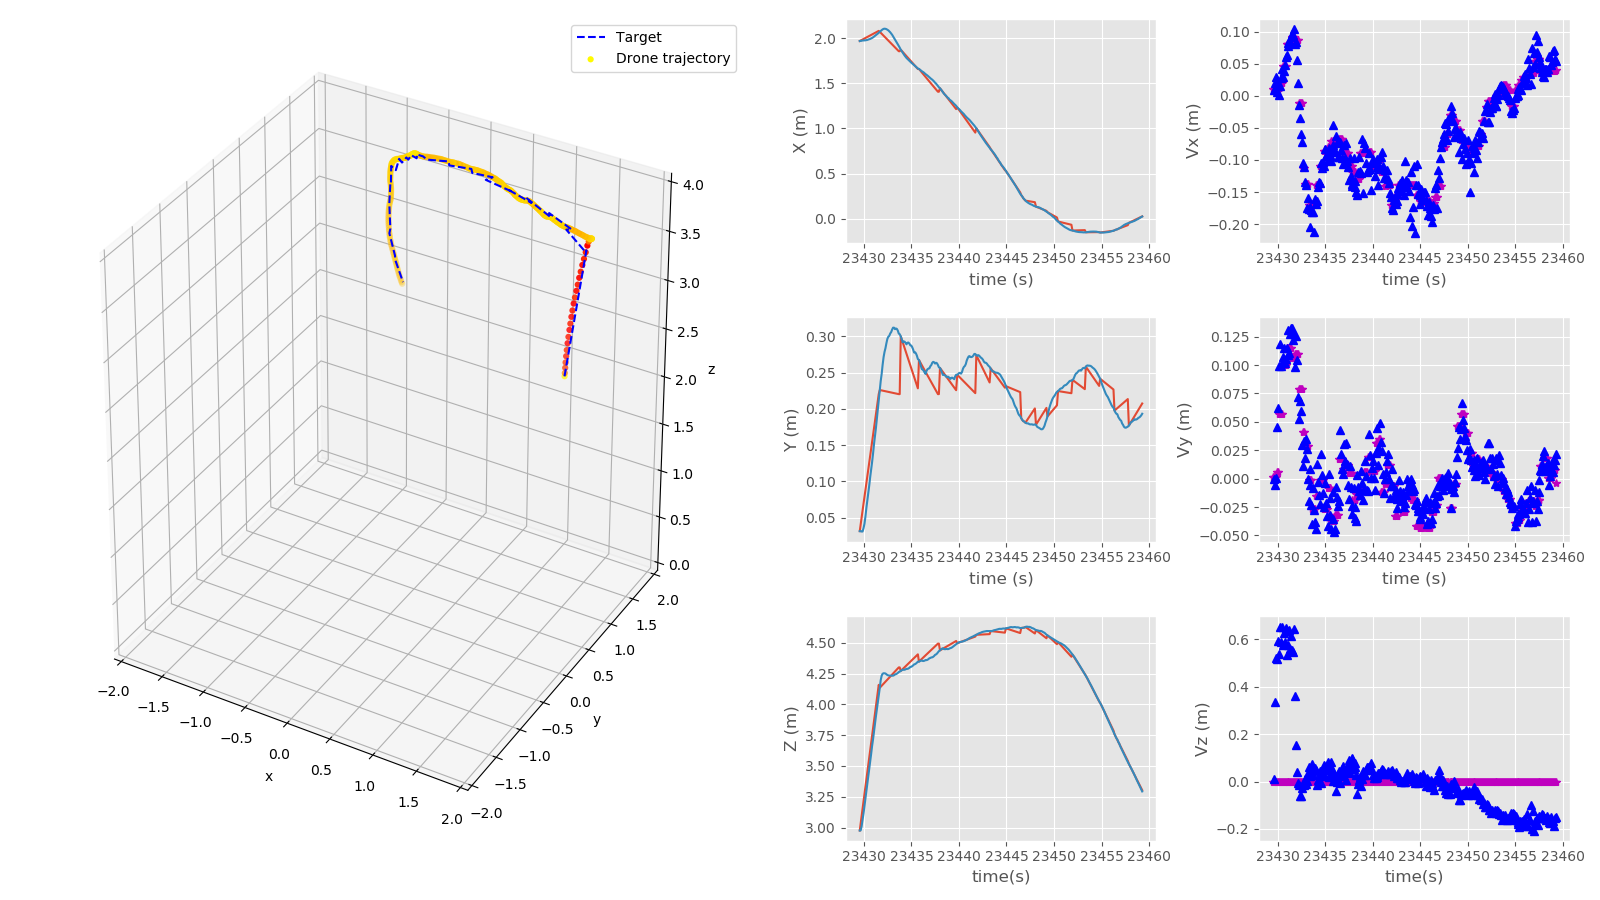
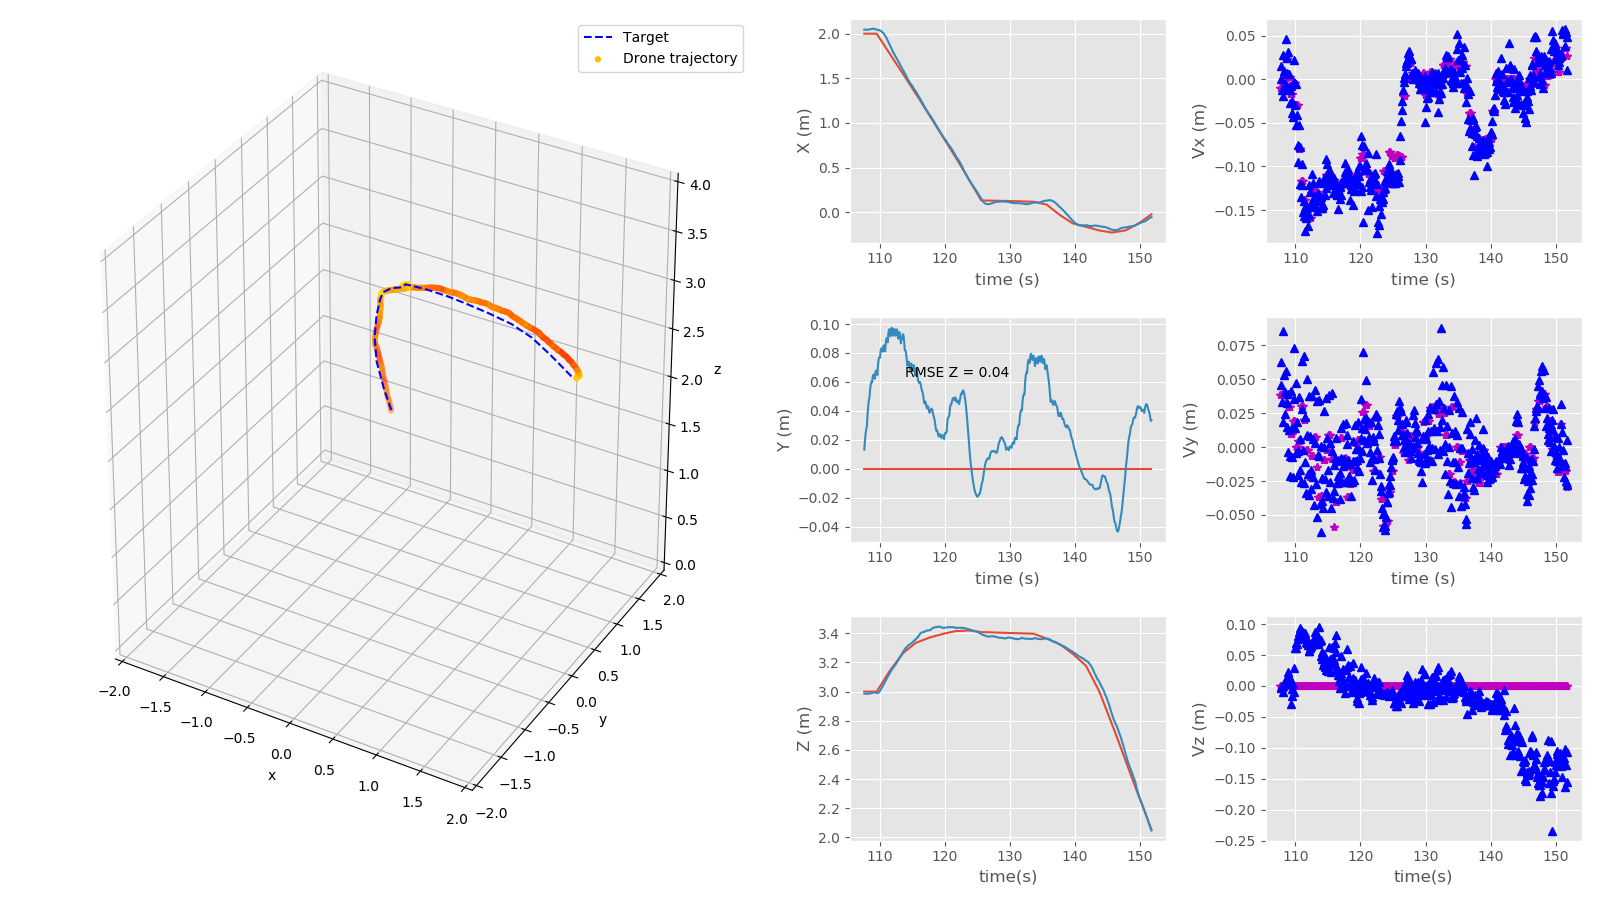
FYP-152: Choose trajectories from options (#81)
* add set of sampled trajectories to the environment

* fix link

* add user choice to program

* rename image files

* style fixes

diff --git a/src/mavros_offboard/src/run_traj.py b/src/mavros_offboard/src/run_traj.py
@@ -3,6 +3,8 @@ import rospy
 import math
 import numpy as np
 import csv
+import re
+import os
 from geometry_msgs.msg import PoseStamped, TwistStamped
 from mavros_msgs.msg import Altitude, ExtendedState, HomePosition, State, WaypointList, PositionTarget, AttitudeTarget
 from mavros_msgs.srv import CommandBool, CommandBoolRequest, SetMode, SetModeRequest, CommandTOL
@@ -51,9 +53,15 @@ class MavrosOffboardSuctionMission():
         self.vNeeded = 2
         self.droneOrientation = 0
 
+        traj_files = self.list_trajectory_files(
+            "/home/tomwoodley/TommyWoodleyMEngProject/src/mavros_offboard/src/sampled_trajectories/")
+
+        file_choice = self.get_user_choice(traj_files)
+
         rospy.loginfo("LOADING WAYPOINTS FROM FILE")
         self.waypoints = self.load_waypoints_from_file(
-            "/home/tomwoodley/TommyWoodleyMEngProject/src/mavros_offboard/src/trajectory_1.csv")
+            "/home/tomwoodley/TommyWoodleyMEngProject/src/mavros_offboard/src/sampled_trajectories/trajectory_"
+            + str(file_choice) + ".csv")
         rospy.loginfo("WAYPOINTS: " + str(self.waypoints))
 
         # mavros service
@@ -145,6 +153,7 @@ class MavrosOffboardSuctionMission():
         Returns:
         - List of (x, y, z) tuples representing the waypoints.
         """
+        self.ros_log_info("Loading Trajectory from: " + filename)
         waypoints = []
 
         with open(filename, 'r') as csvfile:
@@ -437,6 +446,29 @@ class MavrosOffboardSuctionMission():
 
             rospy.sleep(1)
 
+    def get_user_choice(self, options):
+        if rospy.has_param('traj_num'):
+            rospy.delete_param('traj')
+        # Present the options to the user
+        self.ros_log_info(
+            "Please choose a trajectory file (set ROS parameter 'traj_num' to 'one of the numbers below')")
+        for i, option in enumerate(options):
+            print("\t" + str(i + 1) + ": trajectory_" + str(option) + ".csv")
+
+        while not rospy.is_shutdown():
+            if rospy.has_param('traj_num'):
+                user_input = rospy.get_param('traj_num')
+                if user_input in options:
+                    rospy.delete_param('traj_num')
+                    return user_input
+                else:
+                    rospy.delete_param('traj_num')
+                    self.ros_log_info(
+                        "Invalid input type. Please choose a trajectory file"
+                        + "(set ROS parameter 'traj_num' to 'one of the numbers below'): "
+                        + str(user_input))
+            rospy.sleep(1)
+
     # ----------- FLIGHT PATH METHODS -----------
     def run_full_mission(self):
         # Setpoint publishing MUST be faster than 2Hz
@@ -518,6 +550,15 @@ class MavrosOffboardSuctionMission():
 
             self.pos_setpoint_pub.publish(self.pos)
             rate.sleep()
+
+    def list_trajectory_files(self, directory):
+        files = os.listdir(directory)
+
+        pattern = re.compile(r'trajectory_(\d+)\.csv')
+        trajectory_files = [pattern.match(file) for file in files]
+        trajectory_files = [int(match.group(1)) for match in trajectory_files if match]
+
+        return sorted(trajectory_files)
 
 
 if __name__ == '__main__':
